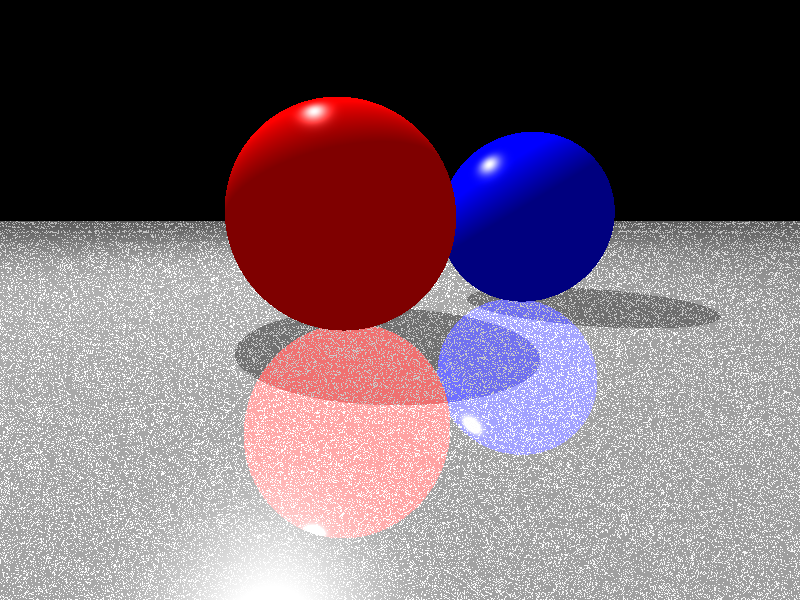
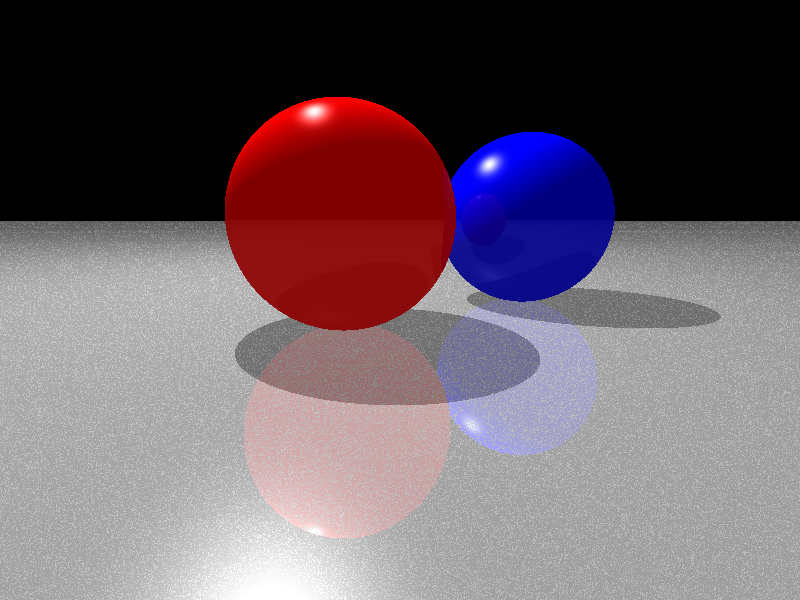
Update README.md

Changed region(s): [[0.0, 0.36, 1.0, 1.0], [0.5312, 0.27, 0.5625, 0.3]]

diff --git a/clifftrace.py b/clifftrace.py
@@ -184,7 +184,7 @@ def intersects(ray, scene, origin):
     return pXfin, index
 
 
-def trace_ray(ray, scene,origin, depth):
+def trace_ray(ray, scene, origin, depth):
     pixel_col = np.zeros(3)
     Satt = 1.
     pX, index = intersects(ray, scene, origin)
@@ -236,9 +236,9 @@ background = np.array([0., 0., 0.])
 
 #add objects to the scene!
 scene = []
-scene.append(Sphere(-2.*e1 + -5.2*e2 + 4.*e3, 4., np.array([1., 0., 0.]), 1., 100., 1., 1., 0.))
-scene.append(Sphere(6.*e1 + 4.*e3, 4., np.array([0., 0., 1.]), 1., 100., 1., 1., 0.))
-scene.append(Plane(20.*e2+ e1, 20.*e2, 21.*e2, np.array([0.7, 0.7, 0.7]), 0.5, 100., 1., 0.5, 1.))
+scene.append(Sphere(-2.*e1 + -5.2*e2 + 4.*e3, 4., np.array([1., 0., 0.]), 1., 100., 1., 1., 0.1))
+scene.append(Sphere(6.*e1 + 4.*e3, 4., np.array([0., 0., 1.]), 1., 100., 1., 1., 0.1))
+scene.append(Plane(20.*e2+ e1, 20.*e2, 21.*e2, np.array([0.7, 0.7, 0.7]), 0.5, 100., 1., 0.5, 0.3))
 
 #Pixel resolution
 w = 800

diff --git a/README.md b/README.md
@@ -8,8 +8,10 @@ This project uses [Conformal Geometric Algebra (CGA)][cga] to build a ray tracin
 * Spherical objects **only**
 * A single point light source
 
+Here is the latest rendering from the code in the repo:
+
 <figure>
-<img src="https://github.com/sushachawal/CliffordRayTrace/blob/master/Example.png?raw=true" alt="drawing" width="100%"/>
+<img src="https://github.com/sushachawal/CliffordRayTrace/blob/master/fig.png?raw=true" alt="drawing" width="100%"/>
 </figure>
 
 ## Usage:
